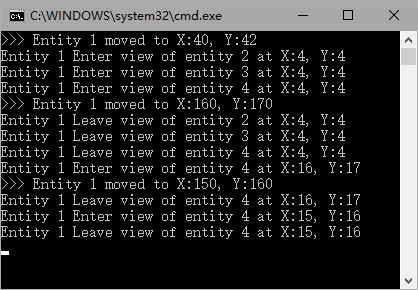
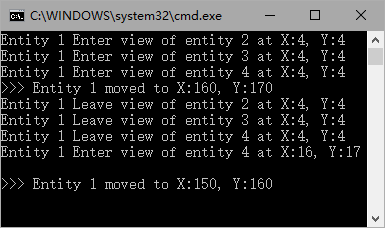
* 修正代码错误

Changed region(s): [[0.0, 0.0307, 0.9974, 1.0], [0.7169, 0.0307, 0.7481, 0.0614], [0.0, 0.8596, 0.0312, 0.8904]]

diff --git a/VariableView/Map.cs b/VariableView/Map.cs
@@ -259,6 +259,8 @@ namespace VariableView
 
         public void ChangeEntityViewDistance_Point(Entity entity, int newViewDistance)
         {
+            newViewDistance = newViewDistance / CellSize;
+
             Vector2 cellIdx = PosToCell(entity.Pos);
             List<Cell> oldWatchCells = entity.watchCells;
             List<Cell> newWatchCells = GetEntityWatchCells(cellIdx, newViewDistance);
@@ -434,6 +436,8 @@ namespace VariableView
 
         public void ChangeEntityViewDistance_Non_Point(Entity entity, int newViewDistance)
         {
+            newViewDistance = newViewDistance / CellSize;
+
             List<Cell> oldWatchCells = new List<Cell>(entity.watchCells);
             List<Cell> newWatchCells = GetRangeEntityWatchCells(entity.placeCells, newViewDistance);
 

diff --git a/VariableView/Robot/Robot.cs b/VariableView/Robot/Robot.cs
@@ -27,6 +27,7 @@ namespace VariableView.Robot
         {
             Entity[] entities = new Entity[4]
             {
+                // Entity 构造函数参数: id, viewDistance, radius, mapId
                 new Entity(1, 12, 3, 1) { Pos = new Vector2(20, 20)},
                 new Entity(2, 15, 0, 1) { Pos = new Vector2(30, 40)},
                 new Entity(3, 34, 0, 1) { Pos = new Vector2(50, 70)},
